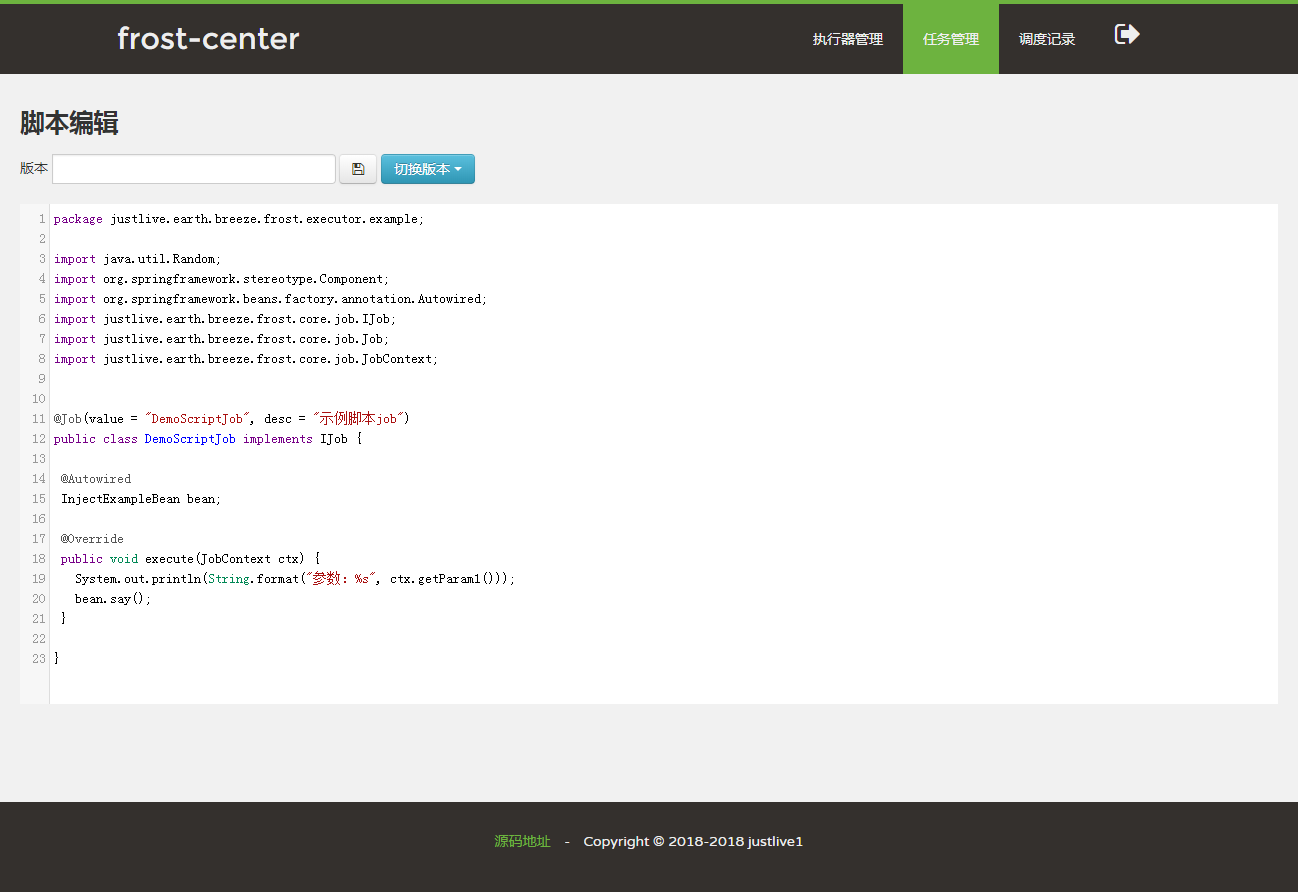
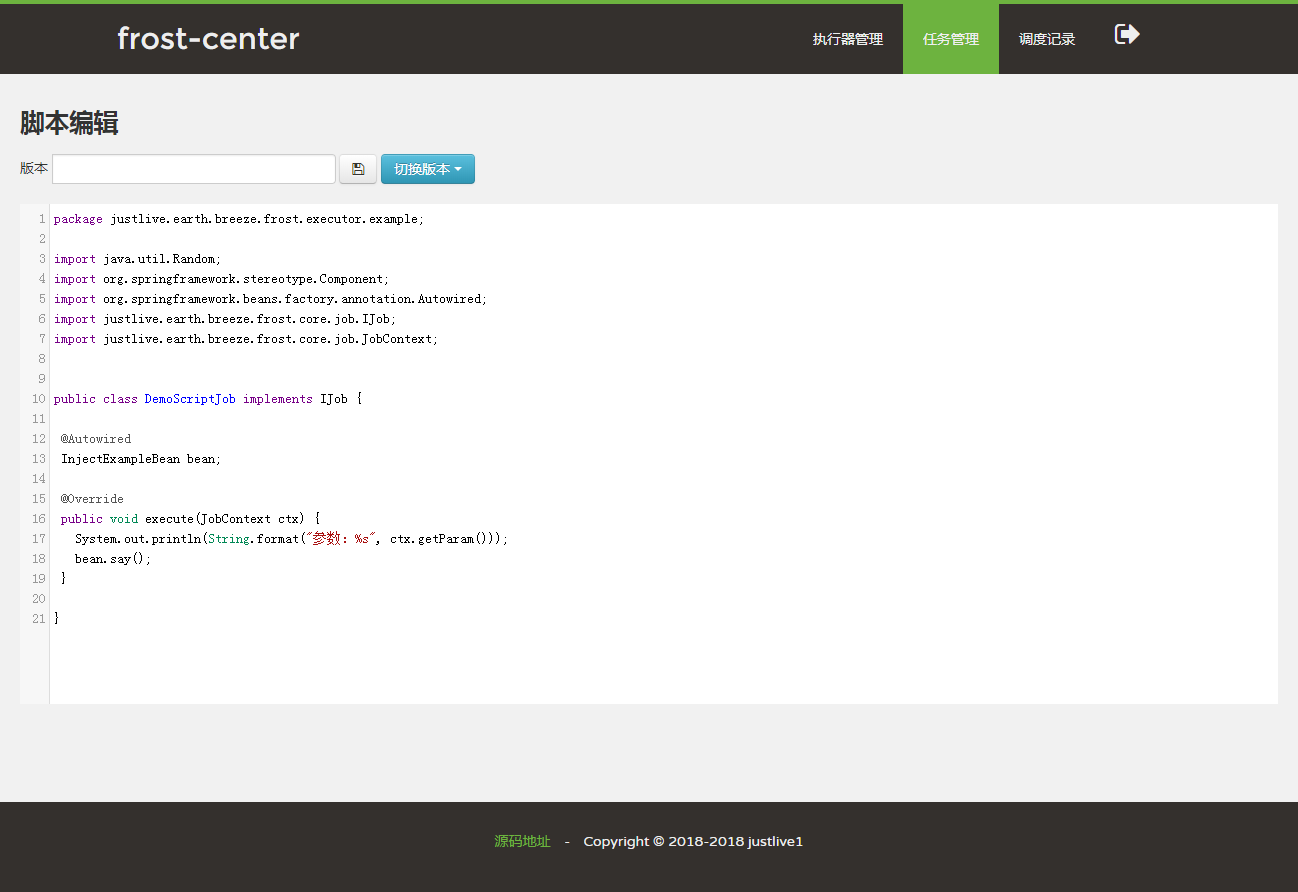
修改文档说明

Changed region(s): [[0.0308, 0.4843, 0.2465, 0.6357], [0.2465, 0.6357, 0.2773, 0.6659], [0.2465, 0.454, 0.2773, 0.4843]]

diff --git a/frost-center/src/main/resources/static/js/frost.js b/frost-center/src/main/resources/static/js/frost.js
@@ -121,11 +121,9 @@ import java.util.Random;
 import org.springframework.stereotype.Component;
 import org.springframework.beans.factory.annotation.Autowired;
 import justlive.earth.breeze.frost.core.job.IJob;
-import justlive.earth.breeze.frost.core.job.Job;
 import justlive.earth.breeze.frost.core.job.JobContext;
 
  
-@Job(value = "DemoScriptJob", desc = "示例脚本job")
 public class DemoScriptJob implements IJob {
  
  @Autowired

diff --git a/frost-client/src/test/java/justlive/earth/breeze/frost/client/FacadeProxyTest.java b/frost-client/src/test/java/justlive/earth/breeze/frost/client/FacadeProxyTest.java
@@ -16,8 +16,13 @@ public class FacadeProxyTest {
     jobApiFacade = proxy.getJobApiFacade();
   }
 
-//  @org.junit.Test
+  @org.junit.Test
   public void test() {
+
+  }
+
+  // @org.junit.Test
+  public void testJob() {
 
     JobInfo jobInfo = new JobInfo();
     jobInfo.setName("测试添加");

diff --git a/README.md b/README.md
@@ -8,15 +8,13 @@ earth-frost是一个轻量级分布式任务调度框架。
 - 使用redis作为数据库
 - 基于订阅模式实现服务注册和发现
 
-![登录页面](https://gitee.com/justlive1/earth-frost/raw/master/images/login.jpeg)
-![执行器列表](https://gitee.com/justlive1/earth-frost/raw/master/images/executor.jpeg)
-![任务列表](https://gitee.com/justlive1/earth-frost/raw/master/images/job.jpeg)
-![添加任务](https://gitee.com/justlive1/earth-frost/raw/master/images/addJob.jpeg)
-![添加脚本任务](https://gitee.com/justlive1/earth-frost/raw/master/images/addScriptJob.jpeg)
-![修改脚本](https://gitee.com/justlive1/earth-frost/raw/master/images/script.jpeg)
-![调度记录](https://gitee.com/justlive1/earth-frost/raw/master/images/record.jpeg)
-
-
+## 环境
+- Angular: v1.x
+- JDK: 1.8+
+- Maven: 3+
+- Redis: 2.8+
+- Spring-boot: 2.x
+- Thymeleaf: 3
 
 ## 功能
 - 简单易上手，支持web界面进行任务的CRUD … ok
@@ -24,28 +22,131 @@ earth-frost是一个轻量级分布式任务调度框架。
 - 调度中心支持集群部署，将任务的调度进行封装，支持分配各种不同的任务 … ok
 - 执行器支持分布式，支持集群部署，可进行相应分组，在调度中心界面查看 … ok
 - 支持伸缩扩展，调度中心和执行器都是基于redis订阅模式进行服务注册发现和任务调度，服务上下线发现及时 … ok
-- 支持失败重试 … coding
-- 任务监控和报警  … coding
+- 支持失败重试 … ok
+- 任务监控和报警  … ok
 - 动态编译任务，支持web界面编辑任务源码，创建任务  … ok
-- 支持父子任务  … coding
+- 支持父子任务  … ok
 - 运行报表  … coding
 
 ## 开发
-
+	
+	frost-api
+		对外实体和接口
 	frost-core
-		核心包，包括通用实体，配置和接口定义
-		
-	frost-center
-		调度中心
-	
-	frost-client
-		客户端api
-	
-	frost-executor
-		执行器
-		
+		定义调度、执行、注册发现、通知等核心功能的接口和抽象
 	frost-support-redis
-		以redis实现接口的支持包
+		以redis实现调度、执行、注册发现等接口的支持包
+	frost-center
+		调度中心服务，包含安全认证和UI展示，依赖core实现调度逻辑
+	frost-executor
+		执行器服务，依赖core实现任务执行逻辑，包含开发脚本任务的部分实例以及配置样例	
+	frost-client
+		客户端api，第三方项目可依赖client实现与调度中心交互
 	
-## 部署
-[Release](https://gitee.com/justlive1/earth-frost/releases)
+## 快速入门
+
+### 启动Redis数据库
+请下载并安装2.8+版本的Redis，单机或集群模式皆可。
+
+调度中心和执行器均支持集群模式部署，集群模式下各节点需配置相同的Redis服务
+
+### 导入源码
+解压源码，按maven格式将源码导入IDE，源码结构如上述 [开发] 章节。
+
+### 配置部署调度中心
+#### 1.配置内容说明
+
+```
+# 登录账号
+spring.boot.auth.enabled=true
+spring.security.user.name=frost
+spring.security.user.password=frost
+
+# 报警通知发送邮件
+spring.mail.host=smtp.mail.com
+spring.mail.username=
+spring.mail.password=
+
+# 邮件通知
+frost.notifier.mail.enabled=true
+frost.notifier.mail.from=${spring.mail.username}
+frost.notifier.mail.to=
+frost.notifier.mail.subject=#{job.name} (#{job.id}) throws an exception
+frost.notifier.mail.text=#{job.name} (#{job.id}) \n #{event.message}
+
+# redis配置
+# 0:单机模式， 1：集群模式
+redisson.mode=0
+redisson.address=redis://localhost:6379
+
+```
+
+#### 2.部署项目
+正确进行上述配置，可将项目编译打包 mvn package(jar或war，相关打包操作参照Spring boot)，调度中心访问地址：http://localhost:20000/center，访问可进入登录界面
+![登录页面](https://gitee.com/justlive1/earth-frost/raw/master/images/login.jpeg)
+
+#### 3.集群模式
+支持集群模式部署，提供调度系统可用性。
+
+集群模式需要注意：保持 登录账号保持一致，保持使用redis配置相同。建议使用Nginx为调度中心做负载均衡
+
+### 配置部署执行器
+
+提供的frost-executor项目可直接使用，也可集成到现有业务项目中使用
+
+#### 1.依赖jar
+在执行器项目中依赖如下jar包
+
+```
+<dependency>
+	<groupId>justlive.earth.breeze.frost</groupId>
+	<artifactId>frost-support-redis</artifactId>
+</dependency>
+```
+
+#### 2.配置说明
+
+```
+# 每个job支持并行处理数
+frost.job.parallel=2
+
+# 执行器名称
+frost.job.executor.name=${spring.application.name}
+# 执行器Key
+frost.job.executor.key=executor-demo
+frost.job.executor.ip=
+frost.job.executor.port=${server.port}
+# 是否支持执行脚本任务
+frost.job.executor.scriptJobEnabled=true
+
+# redis配置
+# 0:单机模式， 1：集群模式
+redisson.mode=0
+redisson.address=redis://localhost:6379
+
+```
+
+#### 3.部署执行器
+使用frost-executor项目开发的执行器直接mvn package即可，集成到现有项目按原有项目打包部署，部署后打开调度中心页面查看执行器页面
+![执行器列表](https://gitee.com/justlive1/earth-frost/raw/master/images/executor.jpeg)
+列表中出现部署的执行器则说明部署成功
+
+### 开发一个简单的任务
+该案例使用脚本任务模式，比使用实例模式只需要部署调度中心和执行器即可，脚本任务可在调度中心在线维护
+
+#### 1.新增任务
+登录调度中心，在任务管理界面点击新增任务，任务类型选择脚本模式，输入相应参数，点击保存。
+![任务列表](https://gitee.com/justlive1/earth-frost/raw/master/images/job.jpeg)
+![添加脚本任务](https://gitee.com/justlive1/earth-frost/raw/master/images/addScriptJob.jpeg)
+
+#### 2.脚本模式开发
+在任务管理列表的操作栏，点击刚新建任务的脚本按钮，进入脚本脚本编辑页面。系统已经初始化了示例脚本任务，可按需进行修改。
+![修改脚本](https://gitee.com/justlive1/earth-frost/raw/master/images/script.jpeg)
+
+#### 3.触发执行
+点击任务右侧“触发一次”按钮可触发一次任务(通常是配置cron定时触发)
+
+#### 4.查看结果
+进入调度记录页面可查看调度和执行结果
+![调度记录](https://gitee.com/justlive1/earth-frost/raw/master/images/record.jpeg)
+
